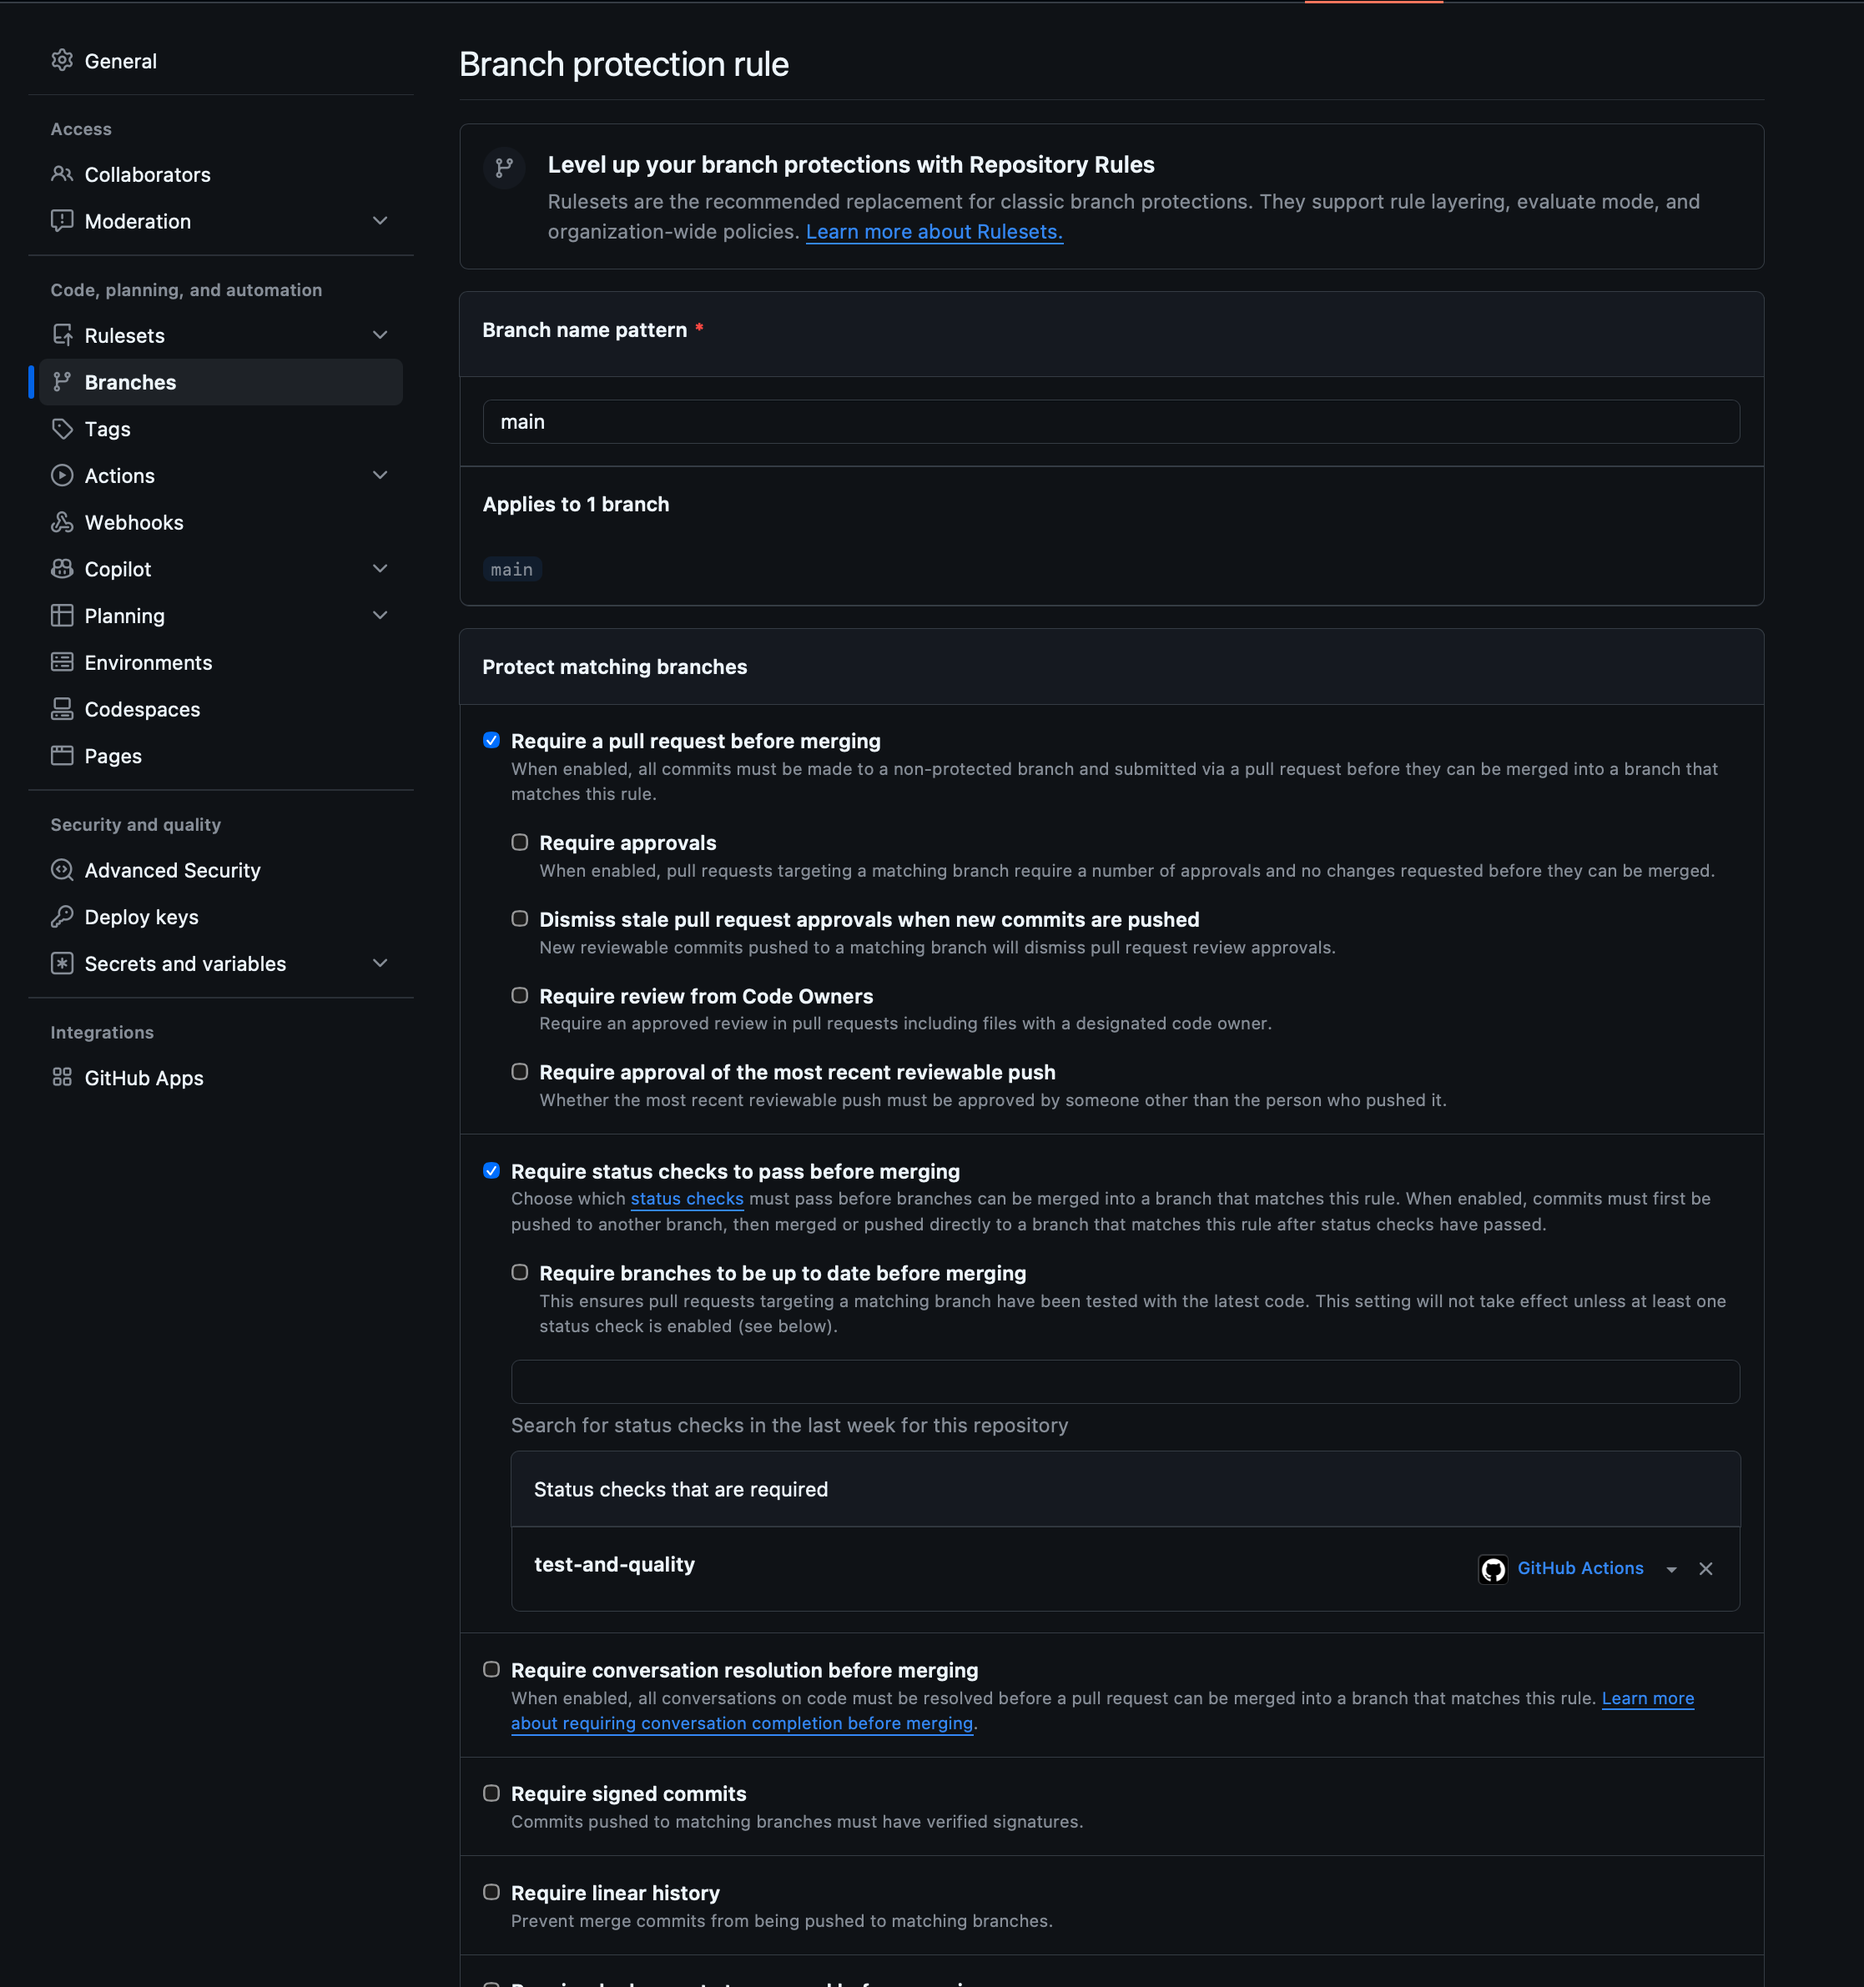
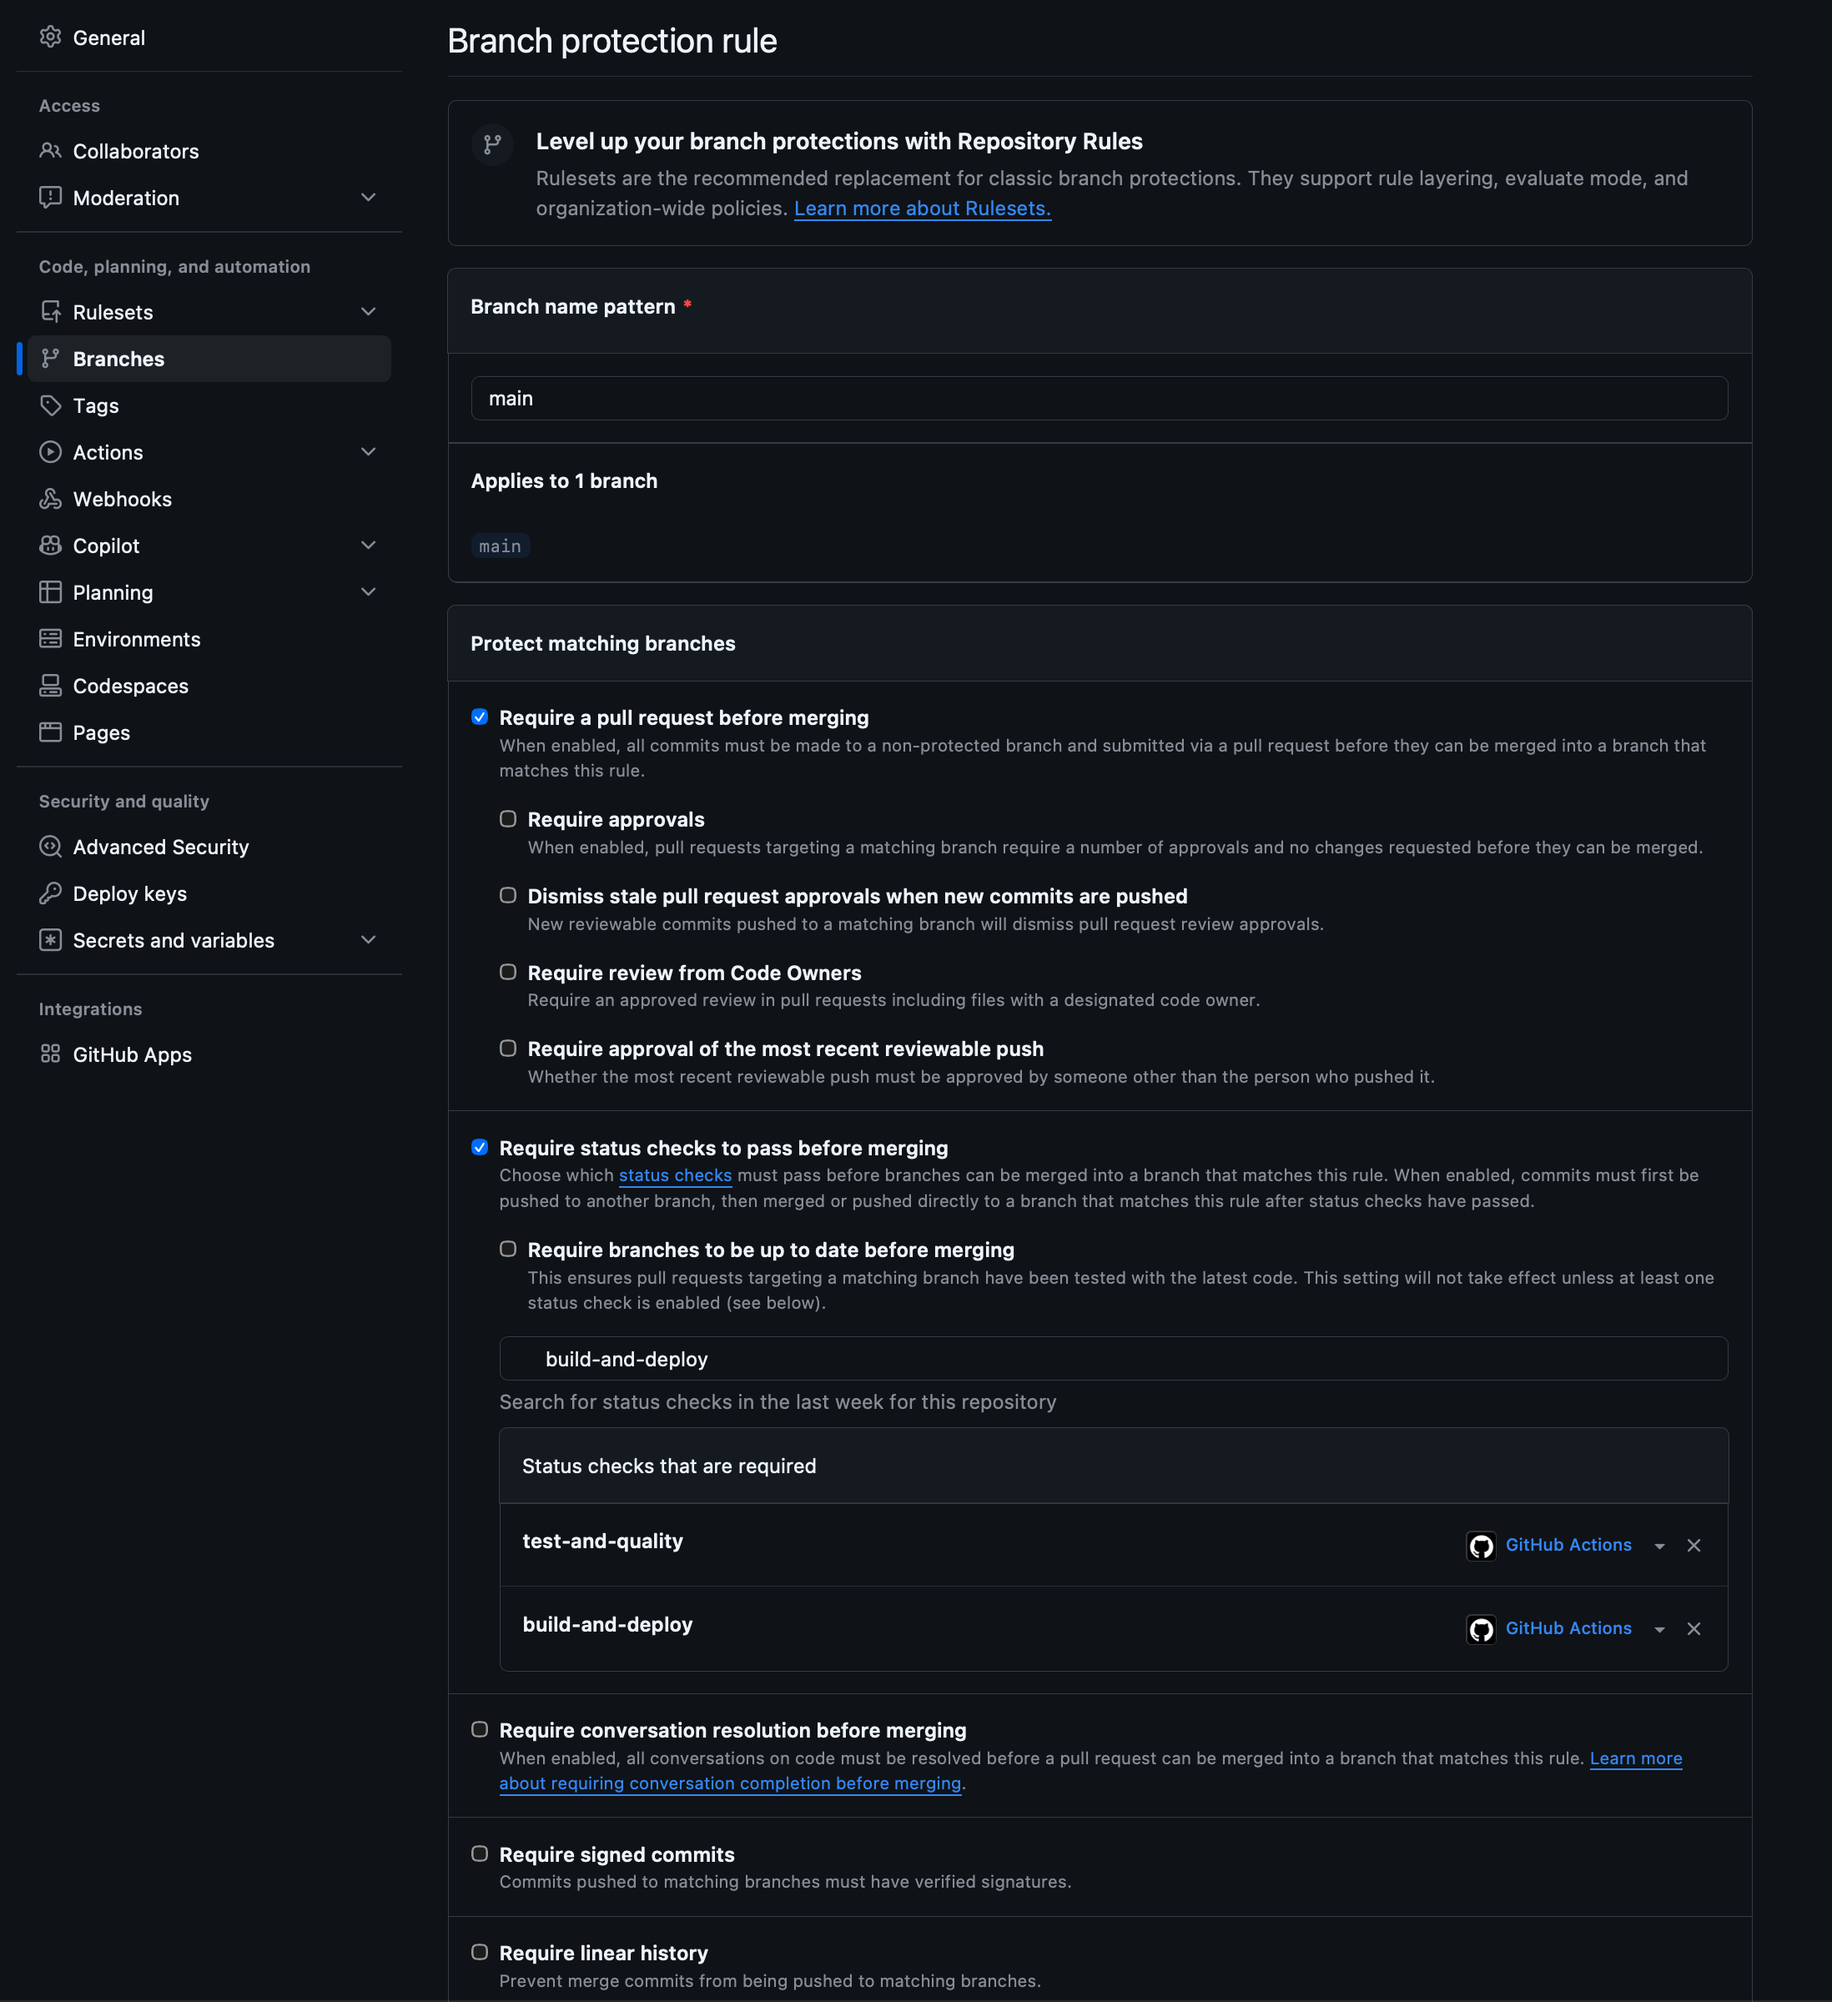
docs: evidências de PR com checagens e proteção da main com os 2 jobs

diff --git a/README.md b/README.md
@@ -208,11 +208,11 @@ Convite enviado ao usuário `soat-architecture` (FIAP SOAT) nos repositórios do
 ![Convite ao soat-architecture em Collaborators](docs/evidencias/04-colaborador-soat-architecture.png)
 
 ### Proteção da branch `main`
-Regra de proteção ativa na `main`: **Require a pull request before merging** e **Require status checks to pass before merging** (job `test-and-quality` obrigatório) — nenhuma alteração entra na `main` sem PR e sem o pipeline aprovado.
+Regra de proteção ativa na `main`: **Require a pull request before merging** e **Require status checks to pass before merging**, com os jobs **`test-and-quality`** e **`build-and-deploy`** obrigatórios — nenhuma alteração entra na `main` sem PR, sem testes/qualidade aprovados e sem o deploy no Kubernetes validado.
 
 ![Regra de proteção da branch main](docs/evidencias/06-protecao-branch-main.png)
 
 ### Pull Request com checagens automáticas
-Exemplo de PR (execution-service): o merge só é liberado após os jobs `test-and-quality` (obrigatório) e `build-and-deploy` e a análise do SonarCloud passarem — o bot do SonarQube Cloud comenta o resultado do Quality Gate no próprio PR. O mesmo fluxo é usado nos 3 microsserviços.
+PR #5 do os-service: o merge só é liberado após os jobs `test-and-quality` e `build-and-deploy` e a análise do SonarCloud passarem — o bot do SonarQube Cloud comenta o resultado do Quality Gate no próprio PR.
 
 ![PR com todas as checagens aprovadas e Quality Gate do SonarCloud](docs/evidencias/07-pr-checks-quality-gate.png)
